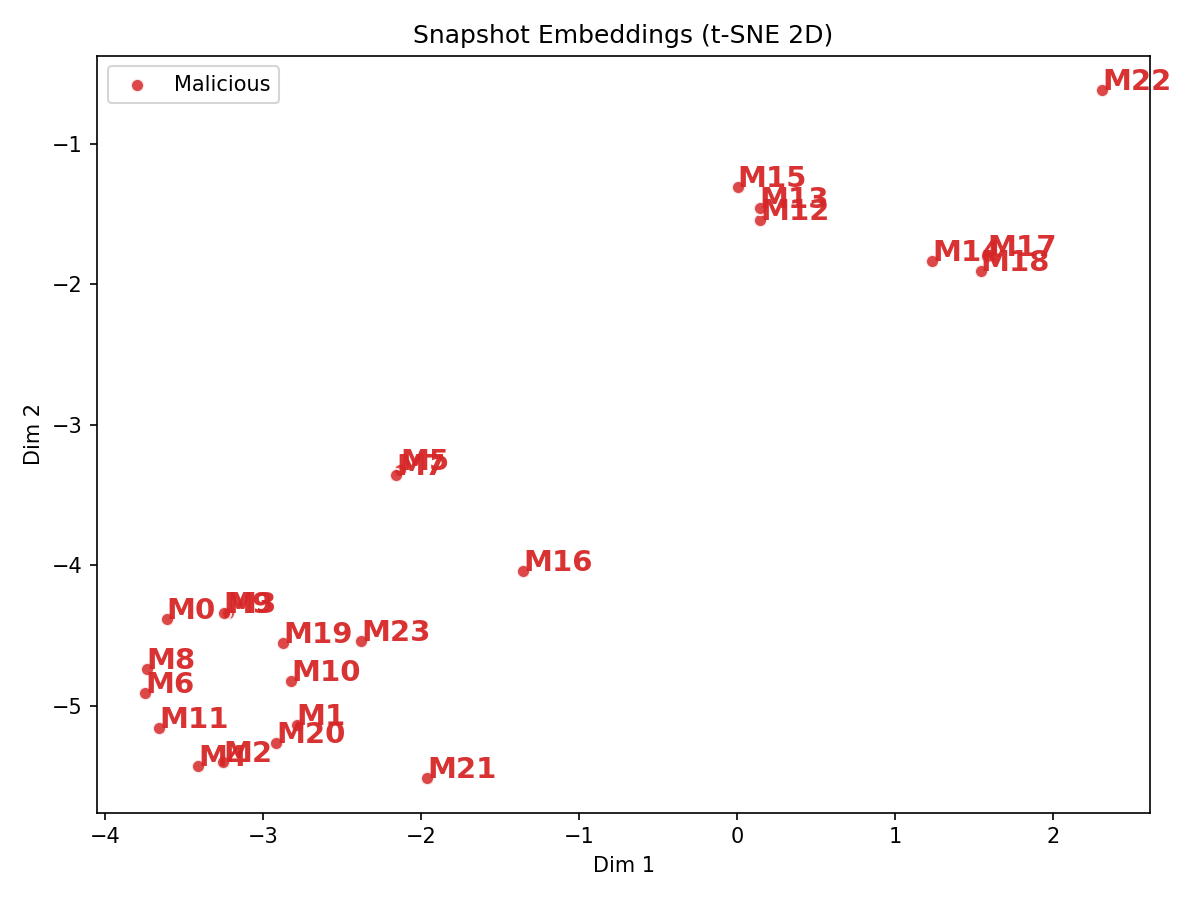
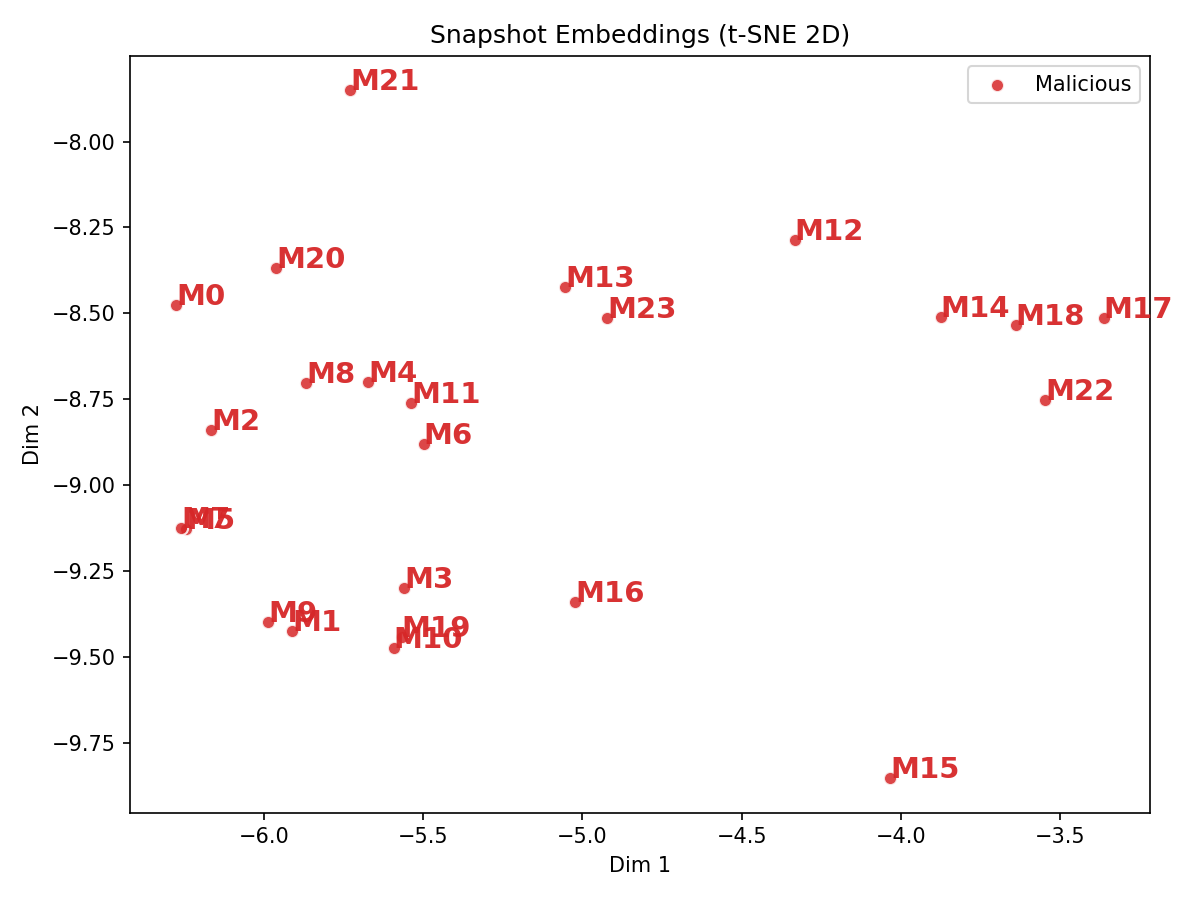
软过滤生成嵌入

diff --git a/process/embedders/gcc_embedder_dev.py b/process/embedders/gcc_embedder_dev.py
@@ -169,8 +169,8 @@ class GCCEmbedderDev(GraphEmbedderBase):
         sim_measure: str = 'wl',            # 'tanimoto' | 'cosine' | 'wl'
         wl_height: int = 2,
         sem_fp_bits: int = 1024,
-        use_malicious_snapshots: bool = False,
-        use_malicious_negatives: bool = True,
+        use_malicious_snapshots: bool = True,
+        use_malicious_negatives: bool = False,
         mal_neg_ratio: float = 0.3,
     mal_neg_node_token_len: int = 1,
         mal_stopwords=None,
@@ -899,15 +899,15 @@ class GCCEmbedderDev(GraphEmbedderBase):
 
     def get_snapshot_embeddings(self, snapshot_sequence=None):
         """
-        基于偏离注意力 (Soft Deviation Attention) 的快照嵌入：
-        - 所有节点参与聚合，不再 hard filter；
-        - 偏离越大，注意力权重越高；
-        - 偏离通过 softmax 归一化 (温度参数 tau 控制平滑程度)；
-        - 度/频率作为二级权重参与；
-        - 计算中心时不使用权重；
-        - 打印恶意节点的偏离权重分布信息。
+        基于偏离-频率联合乘法放大 (Multiplicative Deviation-Frequency Attention) 的快照嵌入：
+        - 所有节点参与聚合；
+        - 分别计算频率比例与偏离比例；
+        - 两者相乘放大，反映二者共同影响；
+        - 无 softmax、无指数，线性可解释；
+        - 不做 L2 归一化，保留模长以反映异常强度。
         """
-        tau = 0.1  # 温度参数：越小越强调高偏离节点
+        freq_power = 1  # 控制频率放大强度
+        dev_power = 2  # 控制偏离放大强度
 
         if not self.snapshot_node_embeddings:
             raise RuntimeError("还没有节点嵌入，请先调用 train()")
@@ -927,88 +927,77 @@ class GCCEmbedderDev(GraphEmbedderBase):
                 result.append(np.zeros(self.enc_out_dim, dtype=np.float32))
                 continue
 
-            # 获取频率或度数（用于聚合，但不用于中心）
+            # ---- frequency ----
             try:
-                freqs = g.vs['frequency'] if 'frequency' in g.vs.attributes() else None
+                freqs = np.array(g.vs['frequency'], dtype=np.float32) if 'frequency' in g.vs.attributes() else None
             except Exception:
                 freqs = None
-            degrees = g.degree()
 
-            names, vecs, weights, labels = [], [], [], []
+            names, vecs, freqs_used, labels = [], [], [], []
             for local_idx in range(g.vcount()):
                 nid = g.vs[local_idx]['name']
                 vec = emb_dict.get(nid)
                 if vec is None:
                     continue
 
-                # 聚合权重：度或频率
-                if freqs is not None:
-                    try:
-                        w = float(freqs[local_idx])
-                    except Exception:
-                        w = 0.0
+                # frequency
+                if freqs is not None and local_idx < len(freqs):
+                    w = float(freqs[local_idx])
                     if not np.isfinite(w) or w < 0:
                         w = 0.0
                 else:
-                    w = float(degrees[local_idx])
-                if w < 0:
-                    w = 0.0
+                    w = 1.0
+                freqs_used.append(w)
 
-                # 标签
                 try:
                     lab = int(g.vs[local_idx]['label'])
                 except Exception:
                     lab = 0
-
-                names.append(nid)
-                vecs.append(np.asarray(vec, dtype=np.float32))
-                weights.append(w)
                 labels.append(lab)
+                vecs.append(np.asarray(vec, dtype=np.float32))
+                names.append(nid)
 
             if not vecs:
                 result.append(np.zeros(self.enc_out_dim, dtype=np.float32))
                 continue
 
             V = np.vstack(vecs).astype(np.float32)
-            W = np.asarray(weights, dtype=np.float32)
+            F = np.asarray(freqs_used, dtype=np.float32)
             labels = np.asarray(labels, dtype=np.int32)
 
-            # ---- 1、无权中心 ----
-            center = V.mean(axis=0)
+            # ---- 归一化频率（线性比例） ----
+            if np.max(F) > 0:
+                F = F / (np.max(F) + 1e-12)
+            F = np.power(F, freq_power)
 
-            # ---- 2、偏离（cosine） ----
+            # ---- 偏离 ----
+            center = V.mean(axis=0)
             Vn = V / (np.linalg.norm(V, axis=1, keepdims=True) + 1e-12)
             cn = center / (np.linalg.norm(center) + 1e-12)
             deviations = 1.0 - np.matmul(Vn, cn)
             deviations = np.clip(deviations, 0, None)
 
-            # ---- 3、偏离注意力 softmax ----
-            alpha = np.exp(deviations / tau)
-            alpha = alpha / (np.sum(alpha) + 1e-12)
+            # ---- 偏离归一化（线性比例） ----
+            if np.max(deviations) > 0:
+                deviations = deviations / (np.max(deviations) + 1e-12)
+            deviations = np.power(deviations, dev_power)
 
-            # ---- 4、结合聚合权重 ----
-            if np.sum(W) > 0:
-                final_w = alpha * (W / (np.sum(W) + 1e-12))
-            else:
-                final_w = alpha
-            final_w = final_w / (np.sum(final_w) + 1e-12)
+            # ---- 乘法放大融合 ----
+            att_raw = F * deviations
+            att = att_raw / (np.sum(att_raw) + 1e-12)
 
-            # ---- 5、加权聚合 ----
-            gvec = np.sum(final_w[:, None] * V, axis=0)
-
-            # ---- 6、保留模长（可选归一化）
-            gvec = gvec / (np.linalg.norm(gvec) + 1e-12)
-
-            # ---- 打印分析 ----
-            mal_indices = np.where(labels == 1)[0]
-            mal_w = final_w[mal_indices] if len(mal_indices) > 0 else []
-            mean_mal_w = np.mean(mal_w) if len(mal_w) > 0 else 0.0
-            print(f"[Snapshot {i:02d}] 偏离注意力聚合: {len(V)} 节点, 平均恶意节点权重={mean_mal_w:.4f}")
-
+            # ---- 聚合 ----
+            gvec = np.sum(att[:, None] * V, axis=0)
             result.append(gvec.astype(np.float32))
 
+            # ---- 打印 ----
+            mal_indices = np.where(labels == 1)[0]
+            mal_w = att[mal_indices] if len(mal_indices) > 0 else []
+            mean_mal_w = np.mean(mal_w) if len(mal_w) > 0 else 0.0
+            print(f"[Snapshot {i:02d}] 乘法联合权重聚合: {len(V)} 节点, 平均恶意节点权重={mean_mal_w:.4f}")
+
         arr = np.vstack(result).astype(np.float32) if result else np.zeros((0, self.enc_out_dim), dtype=np.float32)
-        print(f"[GCC-Dev] Snapshot embeddings (Soft Deviation Attention): {arr.shape}")
+        print(f"[GCC-Dev] Snapshot embeddings (Multiplicative Freq+Deviation Attention): {arr.shape}")
         return arr
 
 
@@ -1021,7 +1010,7 @@ class GCCEmbedderDev(GraphEmbedderBase):
     #     - 聚合权重仍使用原来的度或频率
     #     - 打印恶意节点筛选命中情况
     #     """
-    #     top_ratio = 0.6  # 固定比例：选取偏离最高的前 15%
+    #     top_ratio = 0.1  # 固定比例：选取偏离最高的前 15%
     #
     #     if not self.snapshot_node_embeddings:
     #         raise RuntimeError("还没有节点嵌入，请先调用 train()")